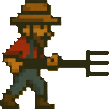
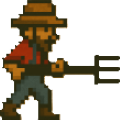
Fix charge fermier

diff --git a/gamelib/animals.py b/gamelib/animals.py
@@ -515,7 +515,7 @@ class PigBoss(Animal):
 
 
 class FinalBoss(Animal):
-    def __init__(self, pos, start_level, end_level, walk_right, walk_left, jump_start_right, jump_start_left, jump_air_right, jump_air_left, attack_ground_right, attack_ground_left):
+    def __init__(self, pos, start_level, end_level, walk_right, walk_left, charge_right, charge_left, jump_start_right, jump_start_left, jump_air_right, jump_air_left, attack_ground_right, attack_ground_left):
         # 3 phases : rouge, orange, violet
         self.phase = 1
         surface1 = pygame.Surface((50, 50), pygame.SRCALPHA)
@@ -535,6 +535,8 @@ class FinalBoss(Animal):
 
         self.walk_right = walk_right
         self.walk_left = walk_left
+        self.charge_right = charge_right
+        self.charge_left = charge_left
         self.jump_start_right = jump_start_right
         self.jump_start_left = jump_start_left
         self.jump_air_right = jump_air_right
@@ -772,6 +774,8 @@ class FinalBoss(Animal):
             # Charge en cours
             self.rect.x += self.speed * self.direction
             self.current_charge_time += 1
+            image = self.charge_right if self.direction > 0 else self.charge_left
+            self.set_image(image)
 
             # Rebonds aux limites
             if self.rect.left < 0:

diff --git a/main_test.py b/main_test.py
@@ -31,11 +31,11 @@ screen = pygame.display.set_mode((SCREEN_WIDTH, SCREEN_HEIGHT))
 pygame.display.set_caption("Bad Wolf – Test Zone")
 clock = pygame.time.Clock()
 
-level = Level1(LEVEL_WIDTH, LEVEL_HEIGHT)
+level = Level6(LEVEL_WIDTH, LEVEL_HEIGHT)
 platforms = level.platforms
 liste_animals = level.animals
 background_image = pygame.transform.scale(level.background, (SCREEN_WIDTH, SCREEN_HEIGHT))
-level_number = 1
+level_number = 6
 
 # Entities
 wolf = Wolf((150, 700))
@@ -422,11 +422,6 @@ while running:
         elif level_number == 6:
             level = Level6(LEVEL_WIDTH, LEVEL_HEIGHT)
         elif level_number > 6:
-            if wolf.rect.colliderect(level.shield.rect):
-                level.shield_powerups.remove(level.shield)
-                shield_timer = 600  # 10 secondes d’invincibilité
-            elif level.shield.timer <= 0:
-                    level.shield_powerups.remove(level.shield)
             if shield_timer > 0:
                 shield_timer -= 1
             

diff --git a/Levels/Levels.py b/Levels/Levels.py
@@ -99,6 +99,11 @@ class Levels():
         self.boss_attack_ground = pygame.image.load("data/fermier_saut3.png").convert_alpha()
 
         self.boss_walk_images_left = [pygame.transform.flip(img, True, False) for img in self.boss_walk_images]
+        self.boss_charge_images = [
+            pygame.image.load("data/fermier_charge1.png").convert_alpha(),
+            pygame.image.load("data/fermier_charge2.png").convert_alpha()
+        ]
+        self.boss_charge_images_left = [pygame.transform.flip(img, True, False) for img in self.boss_charge_images]
         self.boss_jump_start_left = pygame.transform.flip(self.boss_jump_start, True, False)
         self.boss_jump_air_left = pygame.transform.flip(self.boss_jump_air, True, False)
         self.boss_attack_ground_left = pygame.transform.flip(self.boss_attack_ground, True, False)

diff --git a/Levels/Level_6.py b/Levels/Level_6.py
@@ -35,7 +35,7 @@ class Level6(Levels):
         animals_list = []
         animals_list.append(animals.FinalBoss(
             (1200, 700), start_level, end_level,
-            self.boss_walk_images, self.boss_walk_images_left, self.boss_jump_start, self.boss_jump_start_left,
+            self.boss_walk_images, self.boss_walk_images_left, self.boss_charge_images, self.boss_charge_images_left, self.boss_jump_start, self.boss_jump_start_left,
             self.boss_jump_air, self.boss_jump_air_left, self.boss_attack_ground, self.boss_attack_ground_left
         ))
         return animals_list
